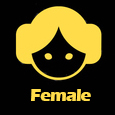
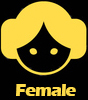
fead: add styles for gender images

diff --git a/src/views/PeoplePage/People.styles.ts b/src/views/PeoplePage/People.styles.ts
@@ -19,15 +19,16 @@ export const WrapperPeople = styled.div`
 export const WrapperGender = styled.div`
   display: flex;
   flex-direction: row;
+  align-items: center;
 `;
 export const GenderTitle = styled.div`
   display: flex;
-  min-width: 280px;
+  min-width: 270px;
   font-weight: 500;
   font-size: 18px;
 `;
 export const GenderImage = styled.img`
-  width: 20px;
+  width: 70px;
 `;
 export const WrapperButtons = styled.div`
   display: flex;
